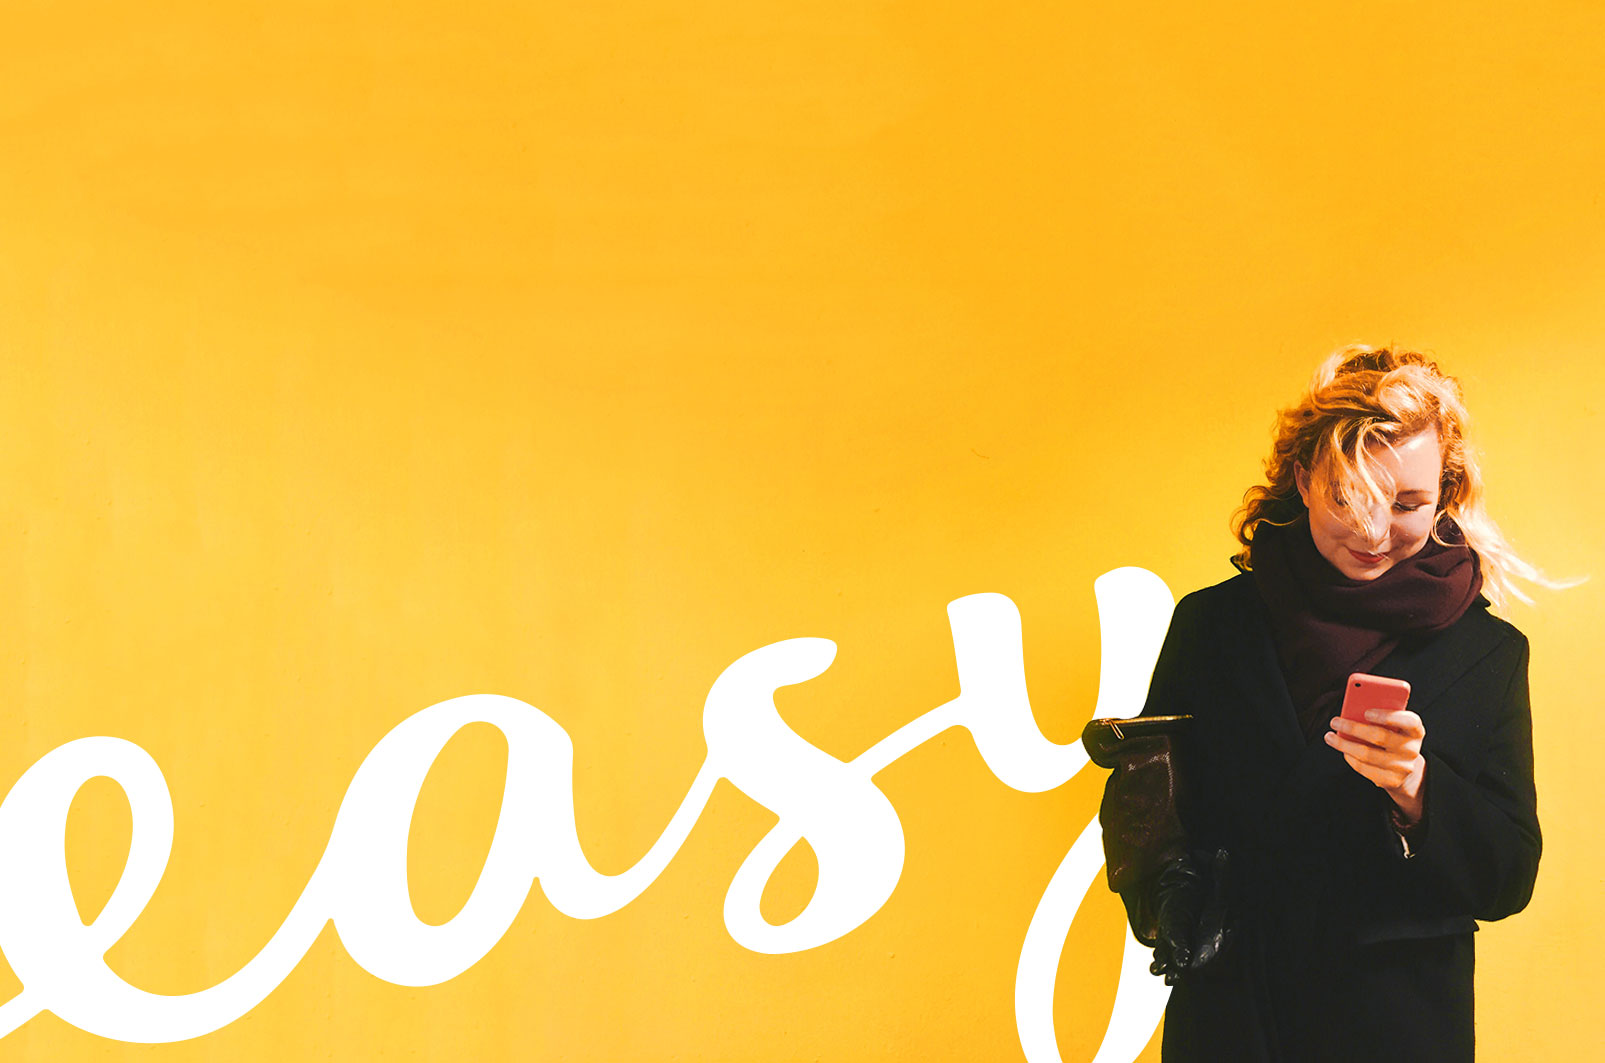
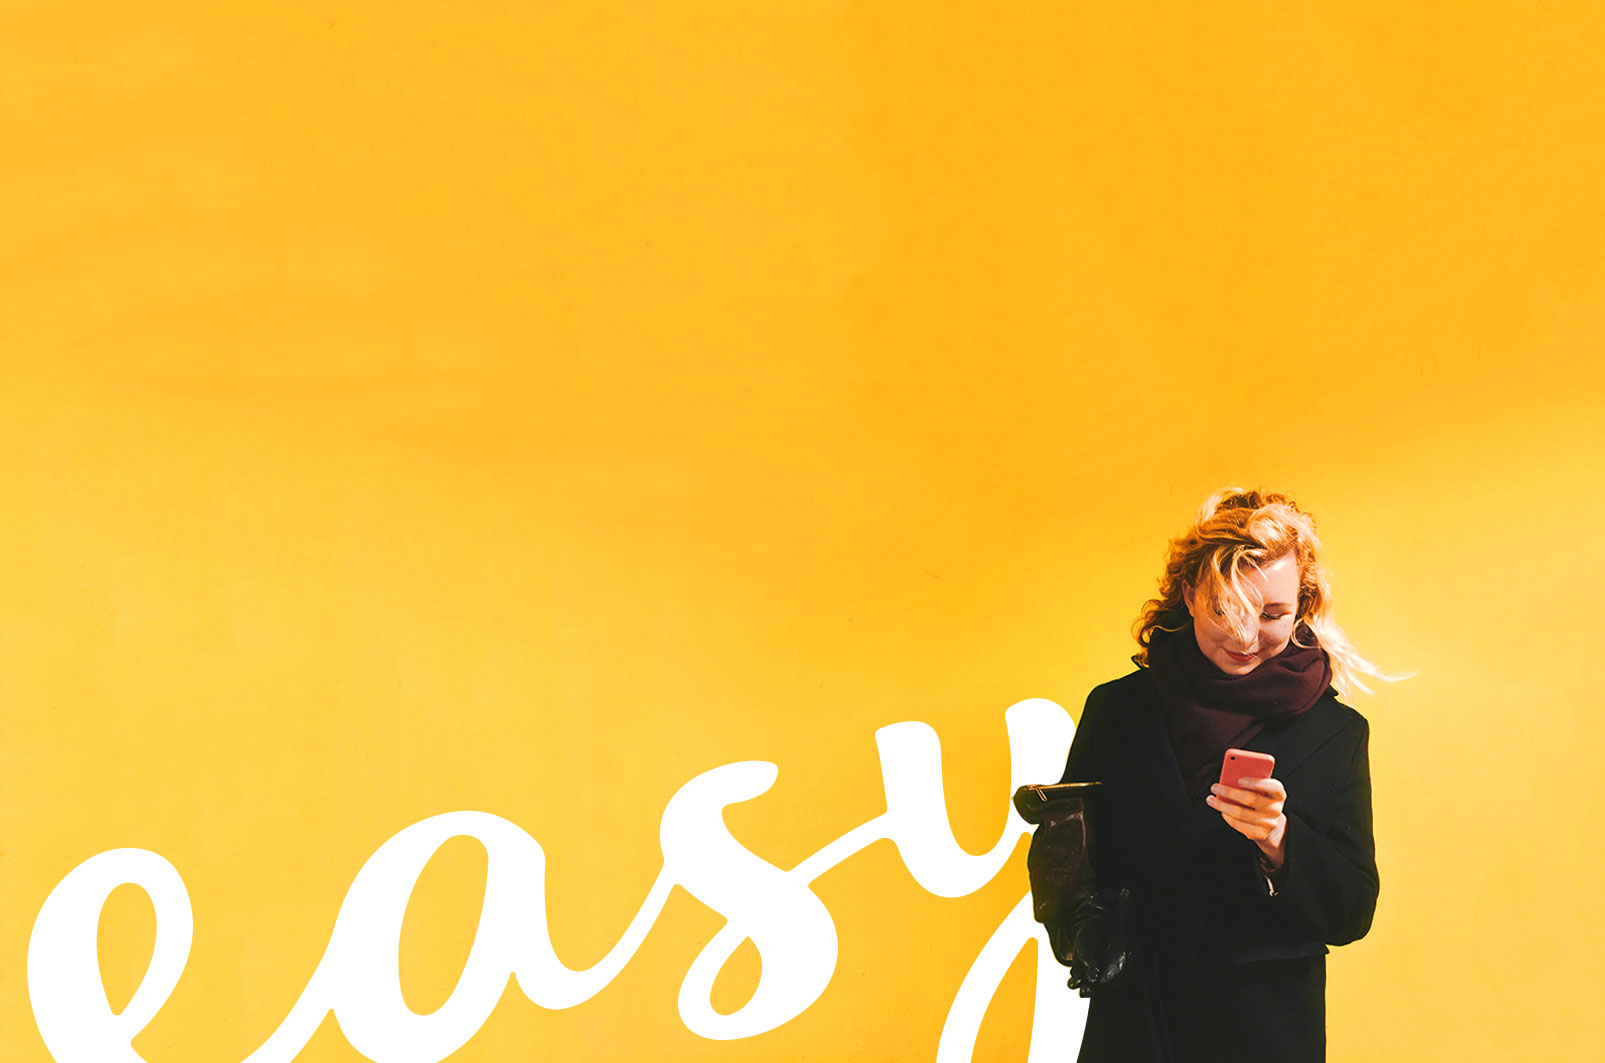
Update callout section to match design

Changed region(s): [[0.0, 0.3104, 1.0, 1.0]]

diff --git a/site/web/app/themes/buzzeasy/assets/sass/utils/_prototype.scss b/site/web/app/themes/buzzeasy/assets/sass/utils/_prototype.scss
@@ -203,7 +203,7 @@ section.benefits {
 }
 
 section.cta-banner {
-    background: color-get(yellow) url("../images/call-out-2.jpg") center right / cover no-repeat;
+    background: color-get(yellow) url("../images/call-out.jpg") center bottom / cover no-repeat;
 }
 
 .cta-banner--double .btn {

diff --git a/site/web/app/themes/buzzeasy/template-home.php b/site/web/app/themes/buzzeasy/template-home.php
@@ -118,7 +118,7 @@
 	<div class="container band band--100">
 		<div class="grid">
 			<div class="gc s1-1 l3-4">
-				<h2 class="heading--alpha heading--highlight--white heading--red landmark--half">Catch your customers before the school&nbsp;run?</h2> <br> <br>
+				<h2 class="heading--alpha heading--highlight--white heading--red landmark--half">Catch your <br> customers before <br> the school&nbsp;run?</h2> <br> <br>
 				<a href="/contact-us/" class="btn btn--red btn--fill--white">Free trial</a>
 			</div>
 			<div class="gc s1-1 l1-4">
